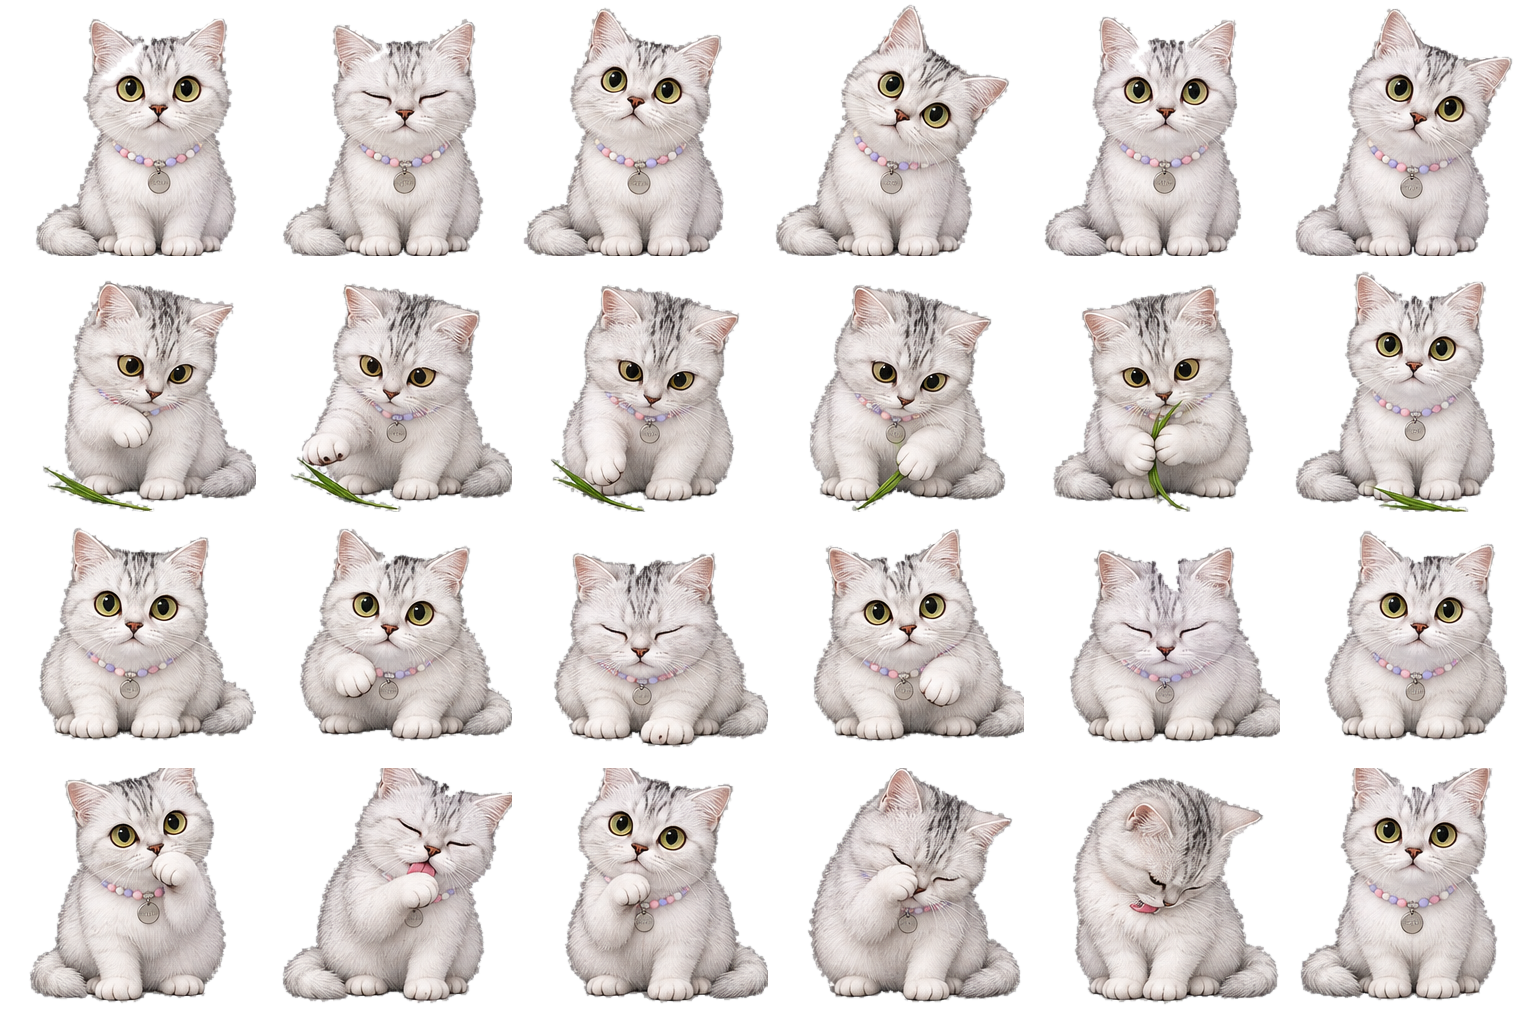
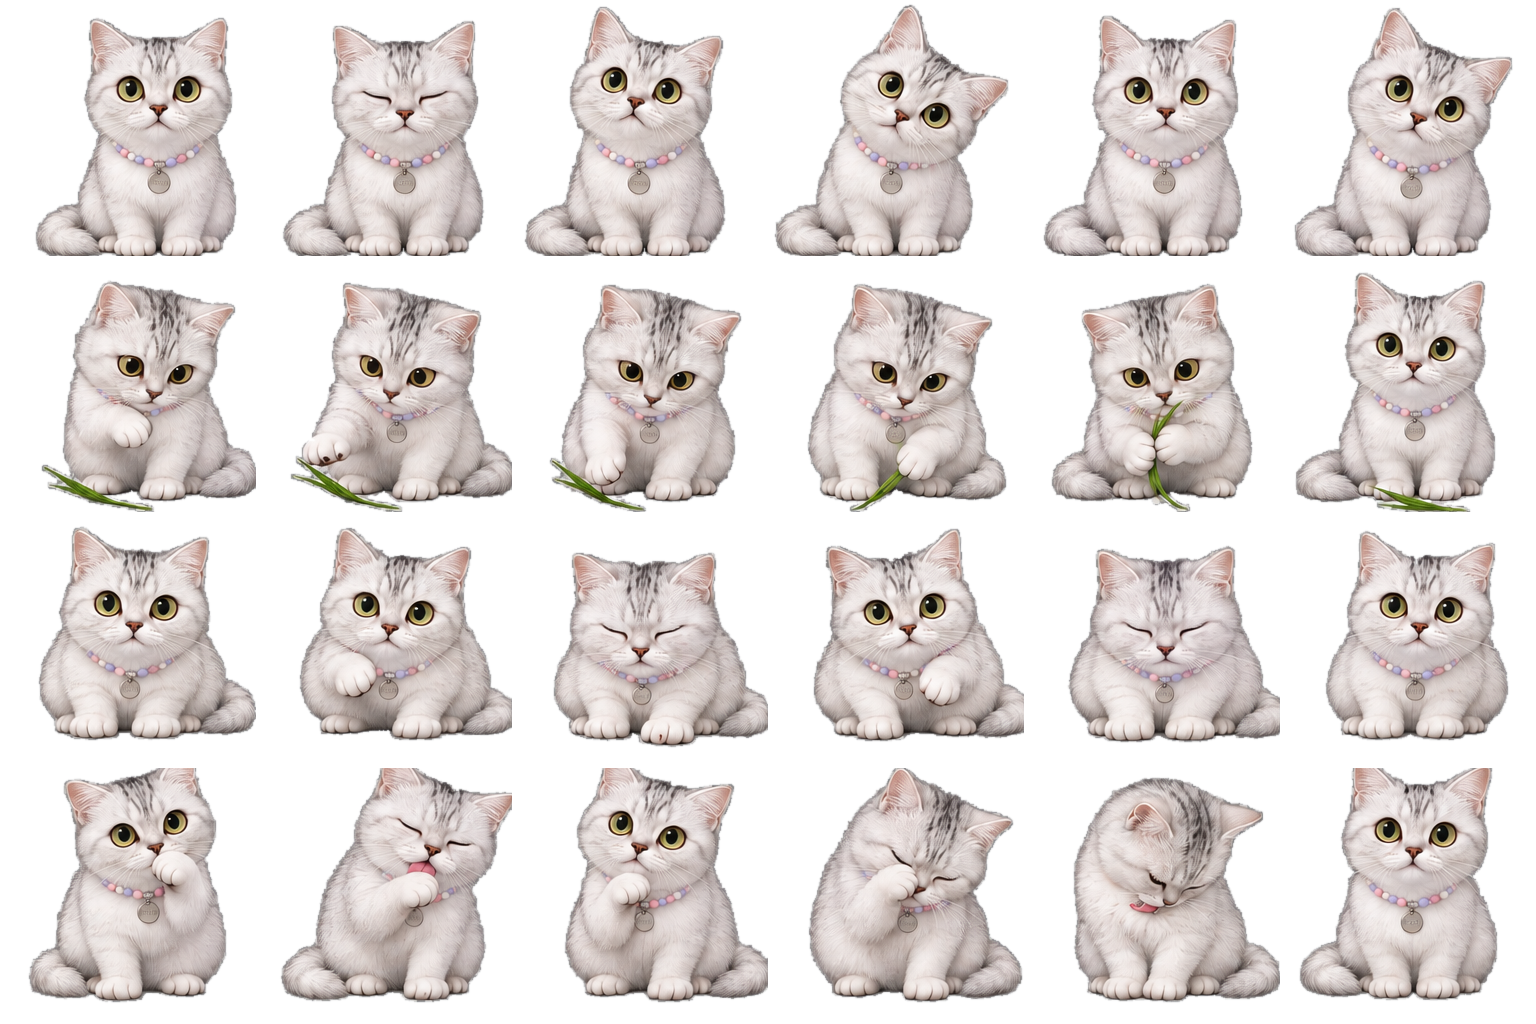
Repair silver cat sprite head artifacts

diff --git a/scripts/build-silver-barley-cat-pet-sprite.py b/scripts/build-silver-barley-cat-pet-sprite.py
@@ -12,6 +12,7 @@ SOURCE_COLUMNS = 6
 SOURCE_ROWS = 4
 FRAME_COUNT = SOURCE_COLUMNS * SOURCE_ROWS
 FRAME_SIZE = 192
+SOURCE_RENDER_SIZE = 184
 GROUND_Y = 187
 RUNTIME_TIMELINE = (
     # Calm idle with readable pauses between the two head tilts.
@@ -23,7 +24,7 @@ RUNTIME_TIMELINE = (
     # Paw lick, face wash, chest lick, and recovery.
     18, 18, 19, 19, 19, 20, 20, 21, 21, 21, 22, 22, 23, 23,
 )
-SOURCE = PET_DIR / "source/silver-barley-cat-actions-generated-checkerboard.png"
+SOURCE = PET_DIR / "source/silver-barley-cat-actions-imagegen-fixed-checkerboard.png"
 MASTER = PET_DIR / "silver-barley-cat-actions-master-6x4.png"
 RUNTIME = PET_DIR / "silver-barley-cat-actions-sheet-60x1.png"
 
@@ -156,12 +157,17 @@ def normalize_runtime(master: Image.Image) -> Image.Image:
     for runtime_index, frame_index in enumerate(RUNTIME_TIMELINE):
         column = frame_index % SOURCE_COLUMNS
         row = frame_index // SOURCE_COLUMNS
-        frame = master.crop((
+        source_frame = master.crop((
             column * source_cell[0],
             row * source_cell[1],
             (column + 1) * source_cell[0],
             (row + 1) * source_cell[1],
-        )).resize((FRAME_SIZE, FRAME_SIZE), Image.Resampling.LANCZOS)
+        )).resize((SOURCE_RENDER_SIZE, SOURCE_RENDER_SIZE), Image.Resampling.LANCZOS)
+        frame = Image.new("RGBA", (FRAME_SIZE, FRAME_SIZE), (0, 0, 0, 0))
+        frame.alpha_composite(
+            source_frame,
+            ((FRAME_SIZE - SOURCE_RENDER_SIZE) // 2, (FRAME_SIZE - SOURCE_RENDER_SIZE) // 2),
+        )
         contact_center, contact_y = cat_contact(frame)
         grounded = Image.new("RGBA", (FRAME_SIZE, FRAME_SIZE), (0, 0, 0, 0))
         grounded.alpha_composite(
